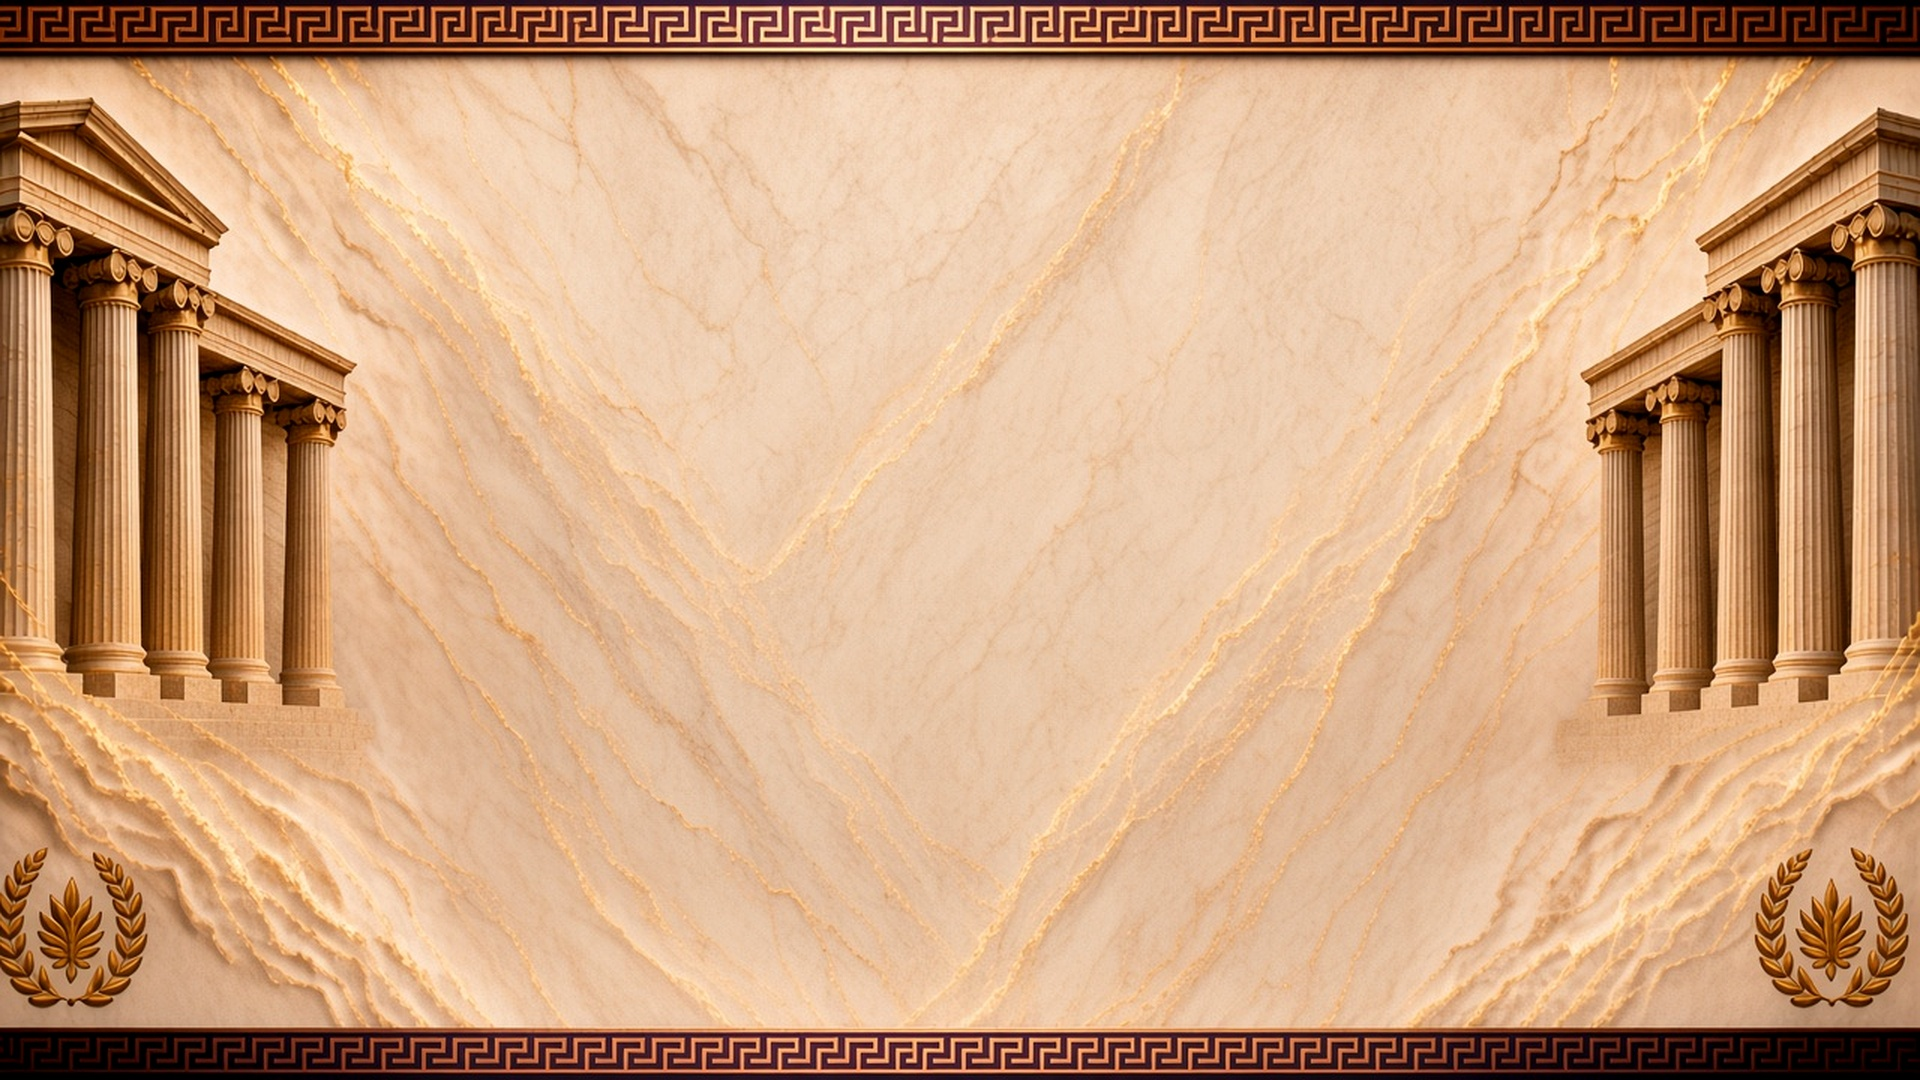
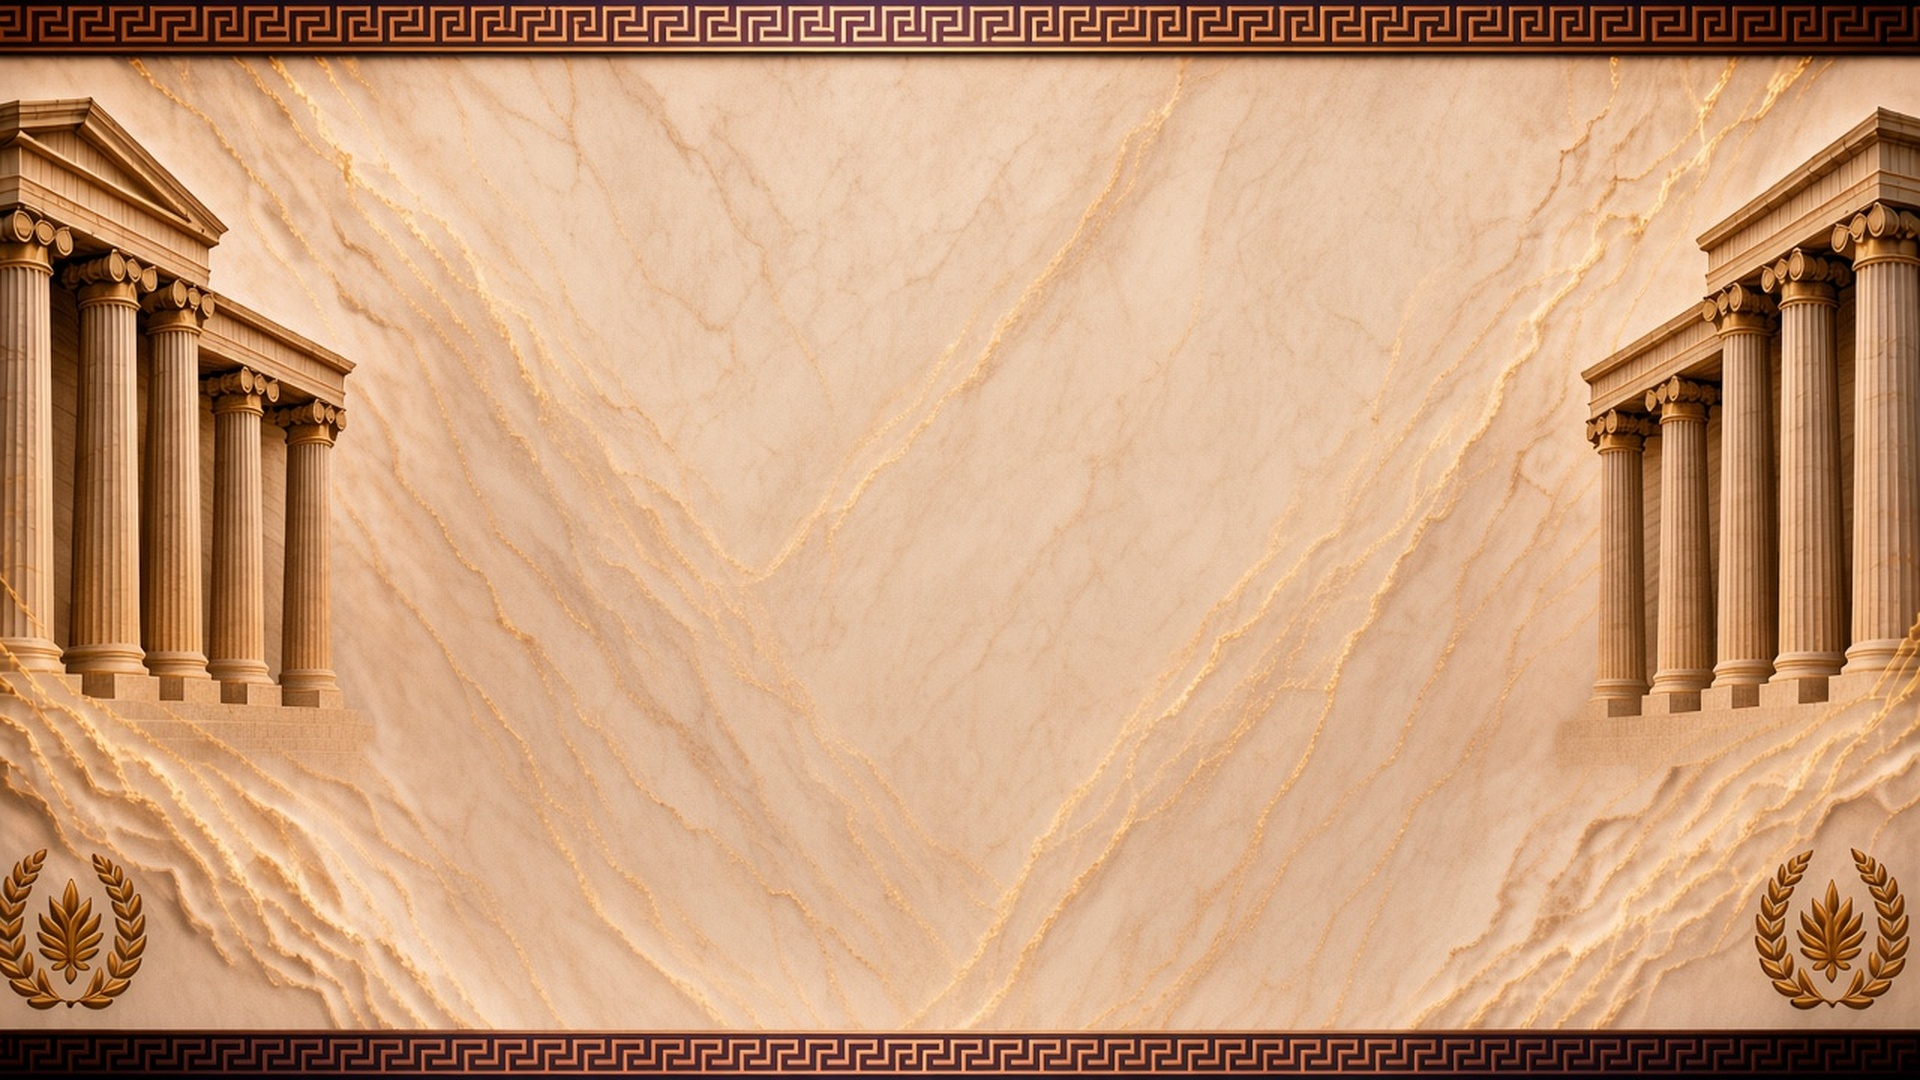
Iterate: light atmosphere with navy-gold Greek rails matching reference

diff --git a/index.html b/index.html
@@ -822,7 +822,7 @@
     html[data-theme="light"] #atlas-greek-stage {
       display: block;
       background-color: #efe4d4;
-      background-image: url('assets/atlas-atm-light.jpg?v=atm2');
+      background-image: url('assets/atlas-atm-light.jpg?v=atm3');
     }
     html[data-theme="light"] #atlas-greek-stage::after {
       background: radial-gradient(ellipse 55% 52% at 50% 46%, rgba(250,246,240,0.78) 0%, rgba(250,246,240,0.35) 55%, transparent 80%);
